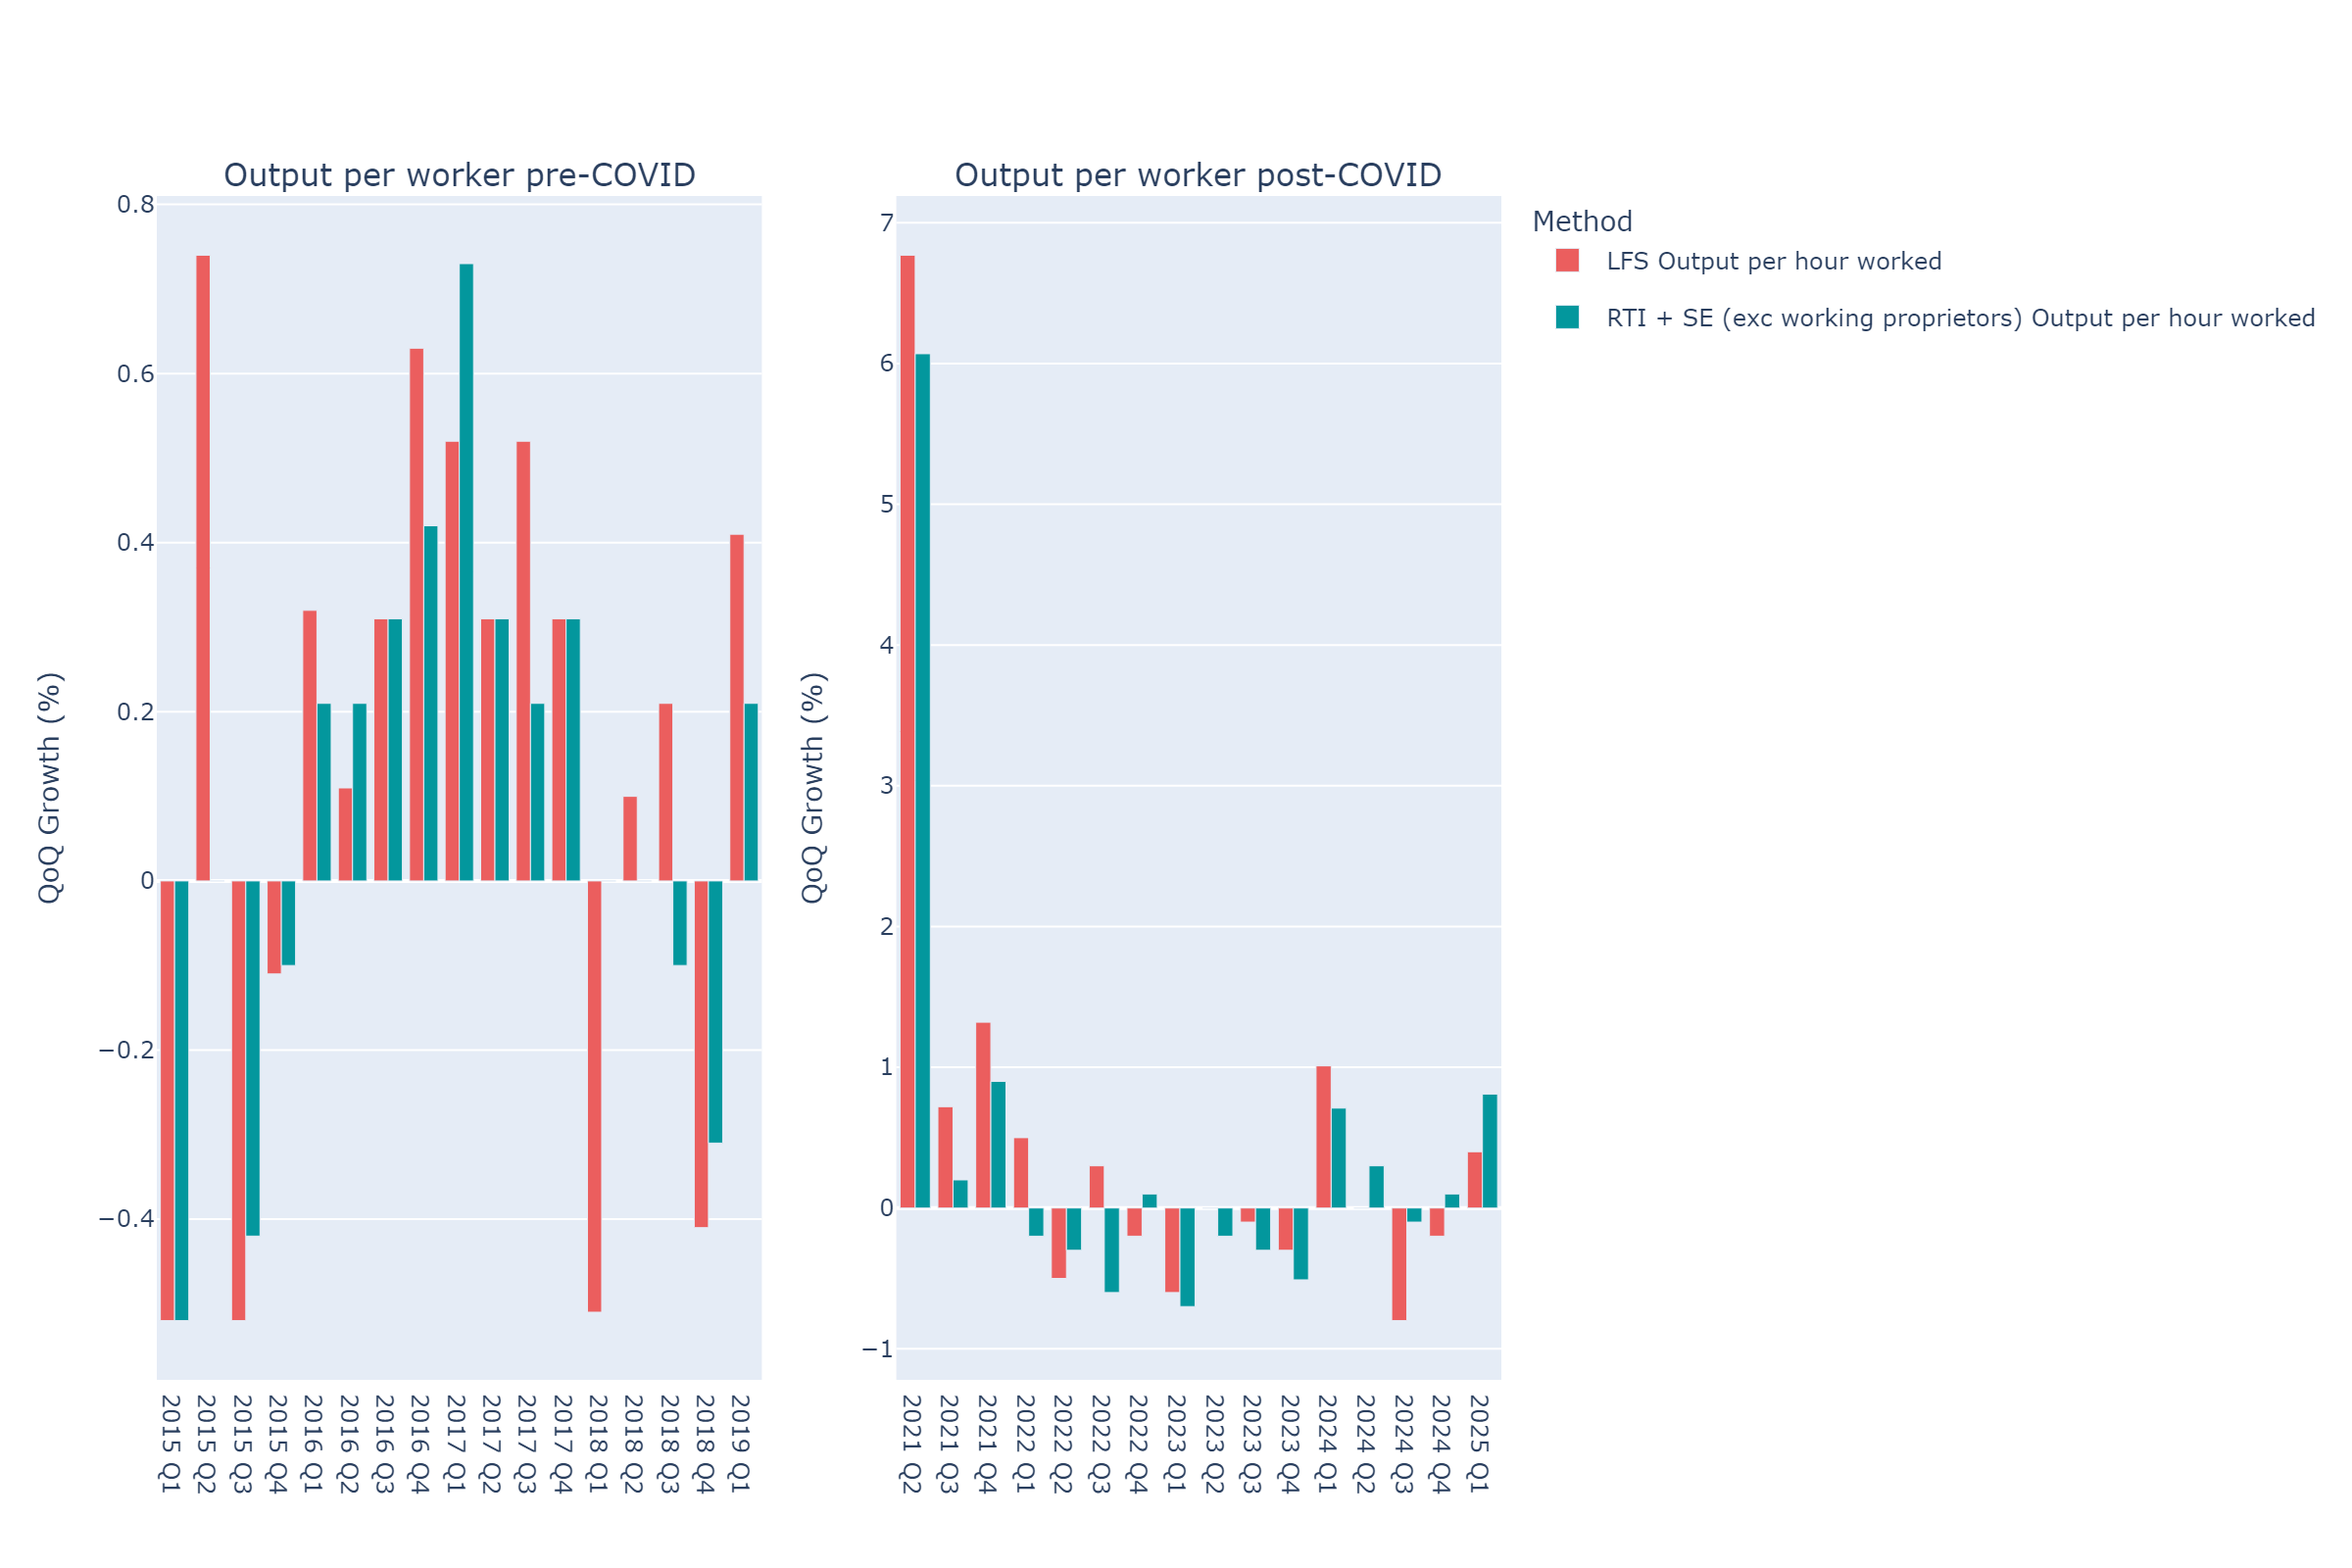
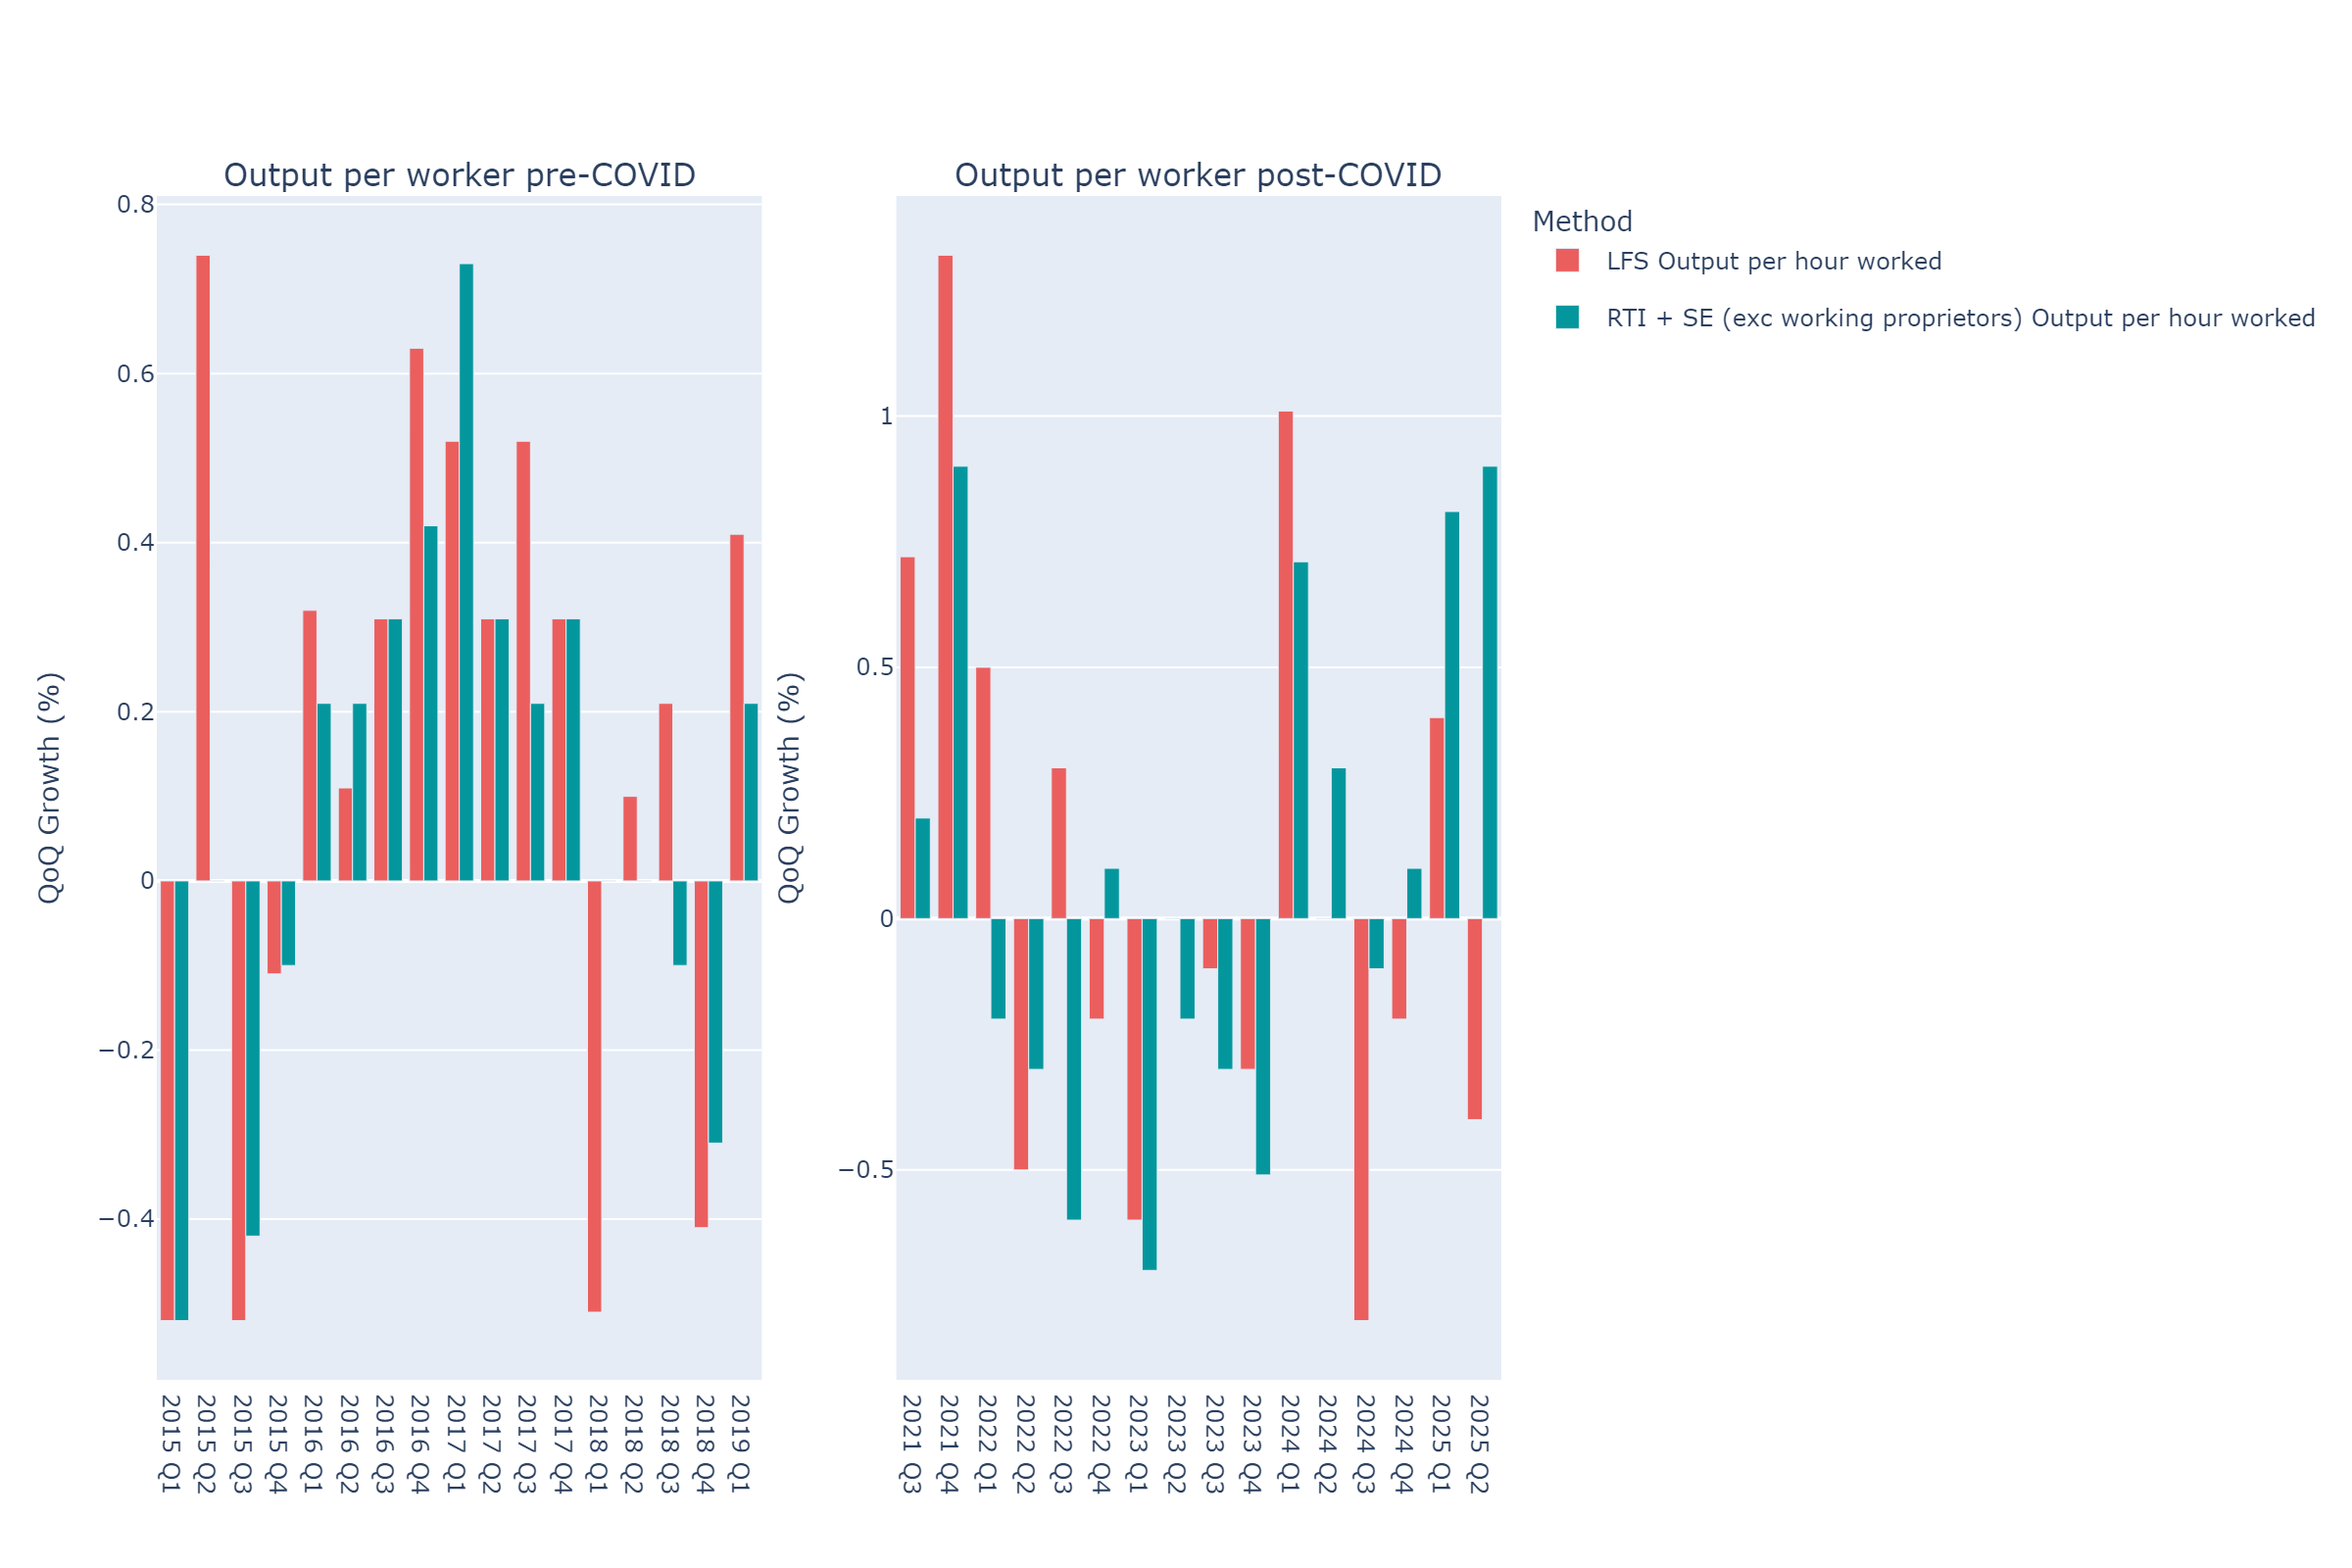
Visualisations updated

Changed region(s): [[0.375, 0.1562, 0.6562, 0.8438], [0.3125, 0.4375, 0.3438, 0.5625]]

diff --git a/scripts/Flash_Estimate_Processing_20252802.py b/scripts/Flash_Estimate_Processing_20252802.py
@@ -46,14 +46,6 @@ def numeric_to_quarter(n):
     return f"{year} Q{qtr}"
 
 def line_graph(data, year, title, yAxisTitle, legendTitle):
-        # base = data.loc[data["Quarter"] == f"{year} Q1", ["GVA", "Hours Worked", "OPH"]].iloc[0].to_numpy()
-        # cols = ["GVA", "Hours Worked", "OPH"]
-        # data[cols] = (data[cols] / base) * 100
-
-        # data["quarter_numeric"] = data["Quarter"].apply(quarter_to_numeric)
-        # data = data[(data["quarter_numeric"] >= year) & (data["quarter_numeric"] <= 2024.75)]
-        # data = data.drop(["quarter_numeric"], axis=1)
-
         fig = px.line(
         data, 
         x="Quarter", 
@@ -62,7 +54,7 @@ def line_graph(data, year, title, yAxisTitle, legendTitle):
         labels={"value": f"{yAxisTitle}", "variable": f"{legendTitle}"},
         color_discrete_sequence=TPI_colours)
 
-        tickvals = [q for q in data['Quarter'] if q.endswith("Q1")]
+        tickvals = [q for q in data['Quarter'] if q.endswith("Q2")]
 
         fig.update_xaxes(tickvals=tickvals)
 
@@ -241,7 +233,6 @@ def horizontal_bar(data, title):
     return fig
 
 def OPH(data, title):
-    print(data)
     data['Output per hour worked'] *= 100
     data['GVA'] *= 100
     data['Hours worked (sign reversed)'] *= 100
@@ -339,7 +330,6 @@ fig.write_image("../out/visualisations/Figure 1 - Contribution to OPH by Industr
 
 # Figure 2
 OPH_Breakdown = pd.read_excel('../src/New-release/GVA OPH HW.xlsx', skiprows=6, usecols=[0,1,2,3])
-print(OPH_Breakdown)
 fig = OPH(OPH_Breakdown, "")
 fig.write_image("../out/visualisations/Figure 2 - OPH GVA HW.png", width=1200, height=800, scale=2)
 # fig.show()
@@ -354,7 +344,7 @@ preCovidOPW = preCovidOPW[(preCovidOPW['Quarter'] >= 2014.75) & (preCovidOPW['Qu
 preCovidOPW['Quarter'] = preCovidOPW['Quarter'].apply(numeric_to_quarter)
 
 postCovidOPW = OPW_Comparison.copy()
-postCovidOPW = postCovidOPW[(postCovidOPW['Quarter'] >= 2021) & (postCovidOPW['Quarter'] <= 2025)]
+postCovidOPW = postCovidOPW[(postCovidOPW['Quarter'] >= 2021.25) & (postCovidOPW['Quarter'] <= 2025.25)]
 postCovidOPW['Quarter'] = postCovidOPW['Quarter'].apply(numeric_to_quarter)
 
 fig = double_qoq(preCovidOPW, postCovidOPW, "", "legend", "Output per worker pre-COVID", "Output per worker post-COVID")
@@ -371,7 +361,7 @@ preCovidOPH = preCovidOPH[(preCovidOPH['Quarter'] >= 2014.75) & (preCovidOPH['Qu
 preCovidOPH['Quarter'] = preCovidOPH['Quarter'].apply(numeric_to_quarter)
 
 postCovidOPH = OPH_Comparison.copy()
-postCovidOPH = postCovidOPH[(postCovidOPH['Quarter'] >= 2021) & (postCovidOPH['Quarter'] <= 2025)]
+postCovidOPH = postCovidOPH[(postCovidOPH['Quarter'] >= 2021) & (postCovidOPH['Quarter'] <= 2025.25)]
 postCovidOPH['Quarter'] = postCovidOPH['Quarter'].apply(numeric_to_quarter)
 
 fig = double_qoq(preCovidOPH, postCovidOPH, "", "legend", "Output per hour worked pre-COVID", "Output per hour worked post-COVID")
@@ -391,11 +381,11 @@ base_value = Flash_Estimate_OPH.loc[Flash_Estimate_OPH["Quarter"] == "2007 Q1", 
 Flash_Estimate_OPH["Output Per Hour"] = (Flash_Estimate_OPH["Output Per Hour"] / base_value) * 100
 
 Flash_Estimate_OPH["Quarter"] = Flash_Estimate_OPH["Quarter"].apply(quarter_to_numeric)
-Flash_Estimate_OPH = Flash_Estimate_OPH[(Flash_Estimate_OPH['Quarter'] >= 2007) & (Flash_Estimate_OPH['Quarter'] <= 2025)]
+Flash_Estimate_OPH = Flash_Estimate_OPH[(Flash_Estimate_OPH['Quarter'] >= 2007) & (Flash_Estimate_OPH['Quarter'] <= 2025.25)]
 Flash_Estimate_OPH["Quarter"] = Flash_Estimate_OPH["Quarter"].apply(numeric_to_quarter)
 fig = line_graph(Flash_Estimate_OPH, 2007, "", "", "")
 # fig.show()
-fig.write_image("../out/visualisations/Figure 5 - Q1 2025 Flash Estimate.png", width=1200, height=800, scale=2)
+fig.write_image("../out/visualisations/Figure 5 - 2025 Flash Estimate.png", width=1200, height=800, scale=2)
 
 # GDPdata = {
 #     "Country": ["UK", "Canada", "Italy", "Germany", "France", "Japan", "US"],
